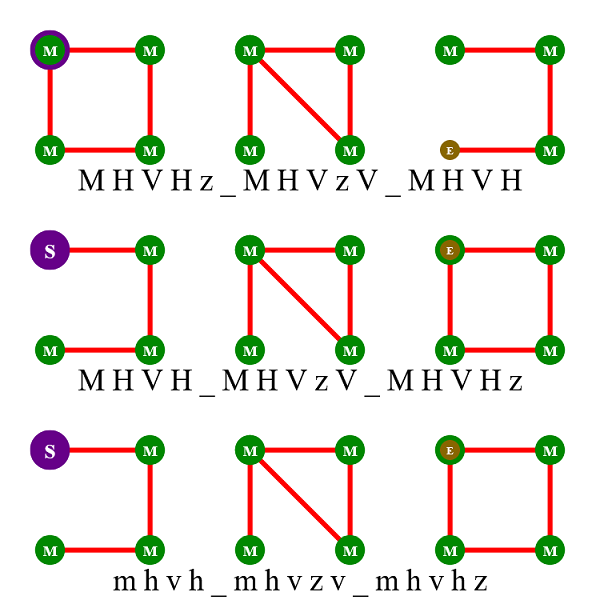
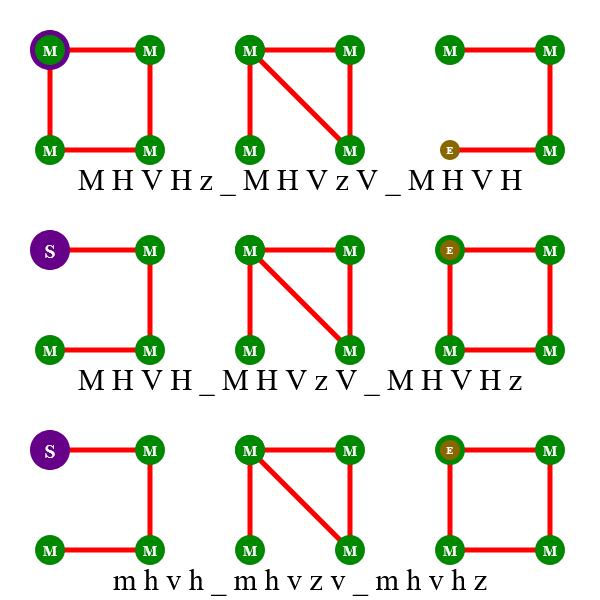
Consistently including Firefox renders

diff --git a/sahara/node_vertices_tests/all_tests.html b/sahara/node_vertices_tests/all_tests.html
@@ -1,0 +1,14 @@
+<html>
+<head>
+</head>
+<body>
+<img src="arcs.svg"/>
+<img src="beziers.svg"/>
+<img src="elliptic.svg"/>
+<img src="gradient.svg"/>
+<img src="lines.svg"/>
+<img src="overlap.svg"/>
+<img src="start_end.svg"/>
+<img src="test0.svg"/>
+</body>
+</html>

diff --git a/sahara/node_vertices_tests/README.md b/sahara/node_vertices_tests/README.md
@@ -1,9 +1,9 @@
 Testcases for changes to CairoSVG's mechanism for path angles and markers.
 
 Column explanation:
-* **[Inkscape](https://inkscape.org/)**'s export-to-PNG function as a reference
+* **[Inkscape](https://inkscape.org/)**'s PNG export and **Firefox** Screenshots as a reference
 * **Kozea**: current version of the [original CairoSVG library](https://github.com/Kozea/CairoSVG)
-* **AgC/main**: this repo's [`main`](https://github.com/SilverCardioid/CairoSVG/) branch, my own work-in-progress fork of CairoSVG (currently functionally the same)
+* **AgC/main**: this repo's [`main`](https://github.com/SilverCardioid/CairoSVG/) branch, my own work-in-progress fork of CairoSVG (not included below)
 * **AgC/master**: the [`master`](https://github.com/SilverCardioid/CairoSVG/tree/master) branch, used for proposing minor changes to Kozea/CairoSVG and otherwise kept in sync with it
 
 The rightmost images are visualisations of the `node.vertices` array, which is internally used for the marker positions and angles. For each vertex, the calculated direction of the outgoing path segment is green, and that of the incoming segment (pointing away from it) is purple. Grey means the two overlap.
@@ -12,49 +12,50 @@ The rightmost images are visualisations of the `node.vertices` array, which is i
 |     |     |     |
 | :-: | :-: | :-: |
 | ![](lines-ink.png)<br/>**Inkscape** | ![](lines-kozea.png)<br/>**Kozea** | ![](lines-kozea-vertices.png)<br/>**Kozea (vertices)** |
-| ![](lines-agc-main.png)<br/>**AgC/main**| ![](lines-agc-master.png)<br/>**AgC/master**  | ![](lines-agc-master-vertices.png)<br/>**AgC/master (vertices)** |
+| ![](lines-firefox.png)<br/>**Firefox**| ![](lines-agc-master.png)<br/>**AgC/master**  | ![](lines-agc-master-vertices.png)<br/>**AgC/master (vertices)** |
 
 ## Beziers
 This test file includes a few degenerate curves, of which some or all control points coincide with vertices. In the current Kozea version, they result in a mathematically undefined `math.atan2(0,0)` (although that function returns an angle of zero degrees, hence all the arrows to the right in Kozea/vertices). The newer version fixes this by noting that the angles correspond to those of the lower-degree Bezier created by removing those control points. The extreme case, a zero-length segment (including those made with `L` or `A`), does not give correct angles yet.
 |     |     |     |
 | :-: | :-: | :-: |
 | ![](beziers-ink.png)<br/>**Inkscape** | ![](beziers-kozea.png)<br/>**Kozea** | ![](beziers-kozea-vertices.png)<br/>**Kozea (vertices)** |
-| ![](beziers-agc-main.png)<br/>**AgC/main**| ![](beziers-agc-master.png)<br/>**AgC/master**  | ![](beziers-agc-master-vertices.png)<br/>**AgC/master (vertices)** |
+| ![](beziers-firefox.png)<br/>**Firefox**| ![](beziers-agc-master.png)<br/>**AgC/master**  | ![](beziers-agc-master-vertices.png)<br/>**AgC/master (vertices)** |
 
 ## Circular arcs
 In the two arc test files, the central segments of each sub-path are arcs with zero radius, which according to [the SVG specification](https://www.w3.org/Graphics/SVG/1.1/implnote.html#ArcOutOfRangeParameters) should be treated as a straight line. Inkscape [fails to render this](arcs-ink.png) (apparently painting a large solid black or white rectangle instead of the path), so its images were made with versions of the files that use an `L` instead.
 |     |     |     |
 | :-: | :-: | :-: |
 | ![](arcs-ink-fix.png)<br/>**Inkscape** | ![](arcs-kozea.png)<br/>**Kozea** | ![](arcs-kozea-vertices.png)<br/>**Kozea (vertices)** |
-| ![](arcs-agc-main.png)<br/>**AgC/main**| ![](arcs-agc-master.png)<br/>**AgC/master**  | ![](arcs-agc-master-vertices.png)<br/>**AgC/master (vertices)** |
+| ![](arcs-firefox.png)<br/>**Firefox**| ![](arcs-agc-master.png)<br/>**AgC/master**  | ![](arcs-agc-master-vertices.png)<br/>**AgC/master (vertices)** |
 
 ## Elliptic arcs
 |     |     |     |
 | :-: | :-: | :-: |
 | ![](elliptic-ink-fix.png)<br/>**Inkscape** | ![](elliptic-kozea.png)<br/>**Kozea** | ![](elliptic-kozea-vertices.png)<br/>**Kozea (vertices)** |
-| ![](elliptic-agc-main.png)<br/>**AgC/main**| ![](elliptic-agc-master.png)<br/>**AgC/master**  | ![](elliptic-agc-master-vertices.png)<br/>**AgC/master (vertices)** |
+| ![](elliptic-firefox.png)<br/>**Firefox**| ![](elliptic-agc-master.png)<br/>**AgC/master**  | ![](elliptic-agc-master-vertices.png)<br/>**AgC/master (vertices)** |
 
 ## Moveto, closepath and marker types
 |     |     |     |
 | :-: | :-: | :-: |
 | ![](start_end-ink.png)<br/>**Inkscape** | ![](start_end-kozea.png)<br/>**Kozea** | ![](start_end-kozea-vertices.png)<br/>**Kozea (vertices)** |
-| ![](start_end-agc-main.png)<br/>**AgC/main**| ![](start_end-agc-master.png)<br/>**AgC/master**  | ![](start_end-agc-master-vertices.png)<br/>**AgC/master (vertices)** |
+| ![](start_end-firefox.png)<br/>**Firefox**| ![](start_end-agc-master.png)<br/>**AgC/master**  | ![](start_end-agc-master-vertices.png)<br/>**AgC/master (vertices)** |
 
 ## Closing vertex angles & marker overlap
-|     |     |     |
-| :-: | :-: | :-: |
-| ![](start_end-ink.png)<br/>**Inkscape** | ![](start_end-firefox.png)<br/>**Firefox** | ![](start_end-agc-master.png)<br/>**AgC/master** |
-| ![](overlap-ink.png)<br/>**Inkscape** | ![](overlap-firefox.png)<br/>**Firefox** | ![](overlap-agc-master.png)<br/>**AgC/master** |
+|     |     |
+| :-: | :-: |
+| ![](overlap-ink.png)<br/>**Inkscape** | ![](overlap-kozea.png)<br/>**Kozea** |
+| ![](overlap-firefox.png)<br/>**Firefox** | ![](overlap-agc-master.png)<br/>**AgC/master** |
 
-A note on a discrepancy between Inkscape and CairoSVG: on the initial vertex of closed sub-paths, Inkscape doesn't average the angles of the adjoining segments as [the specification](https://www.w3.org/Graphics/SVG/1.1/painting.html#Markers) stipulates (which AgC/master follows, as do Firefox and the few other browsers I've tried), but instead places two markers in the direction of the first and last segments, as if the path had been "manually closed" with an `L`.
+A note on a discrepancy between Inkscape and CairoSVG in the previous tests: on the initial vertex of closed sub-paths, Inkscape doesn't average the angles of the adjoining segments as [the specification](https://www.w3.org/Graphics/SVG/1.1/painting.html#Markers) stipulates (which AgC/master follows, as do Firefox and the few other browsers I've tried), but instead places two markers in the direction of the first and last segments, as if the path had been "manually closed" with an `L`.
 
 Contrary to what I originally assumed, Firefox actually also draws two overlapping markers, although obviously only one will be visible if their shape and orientation are the same. This behaviour is in line with the specification ("for a 'path' element which ends with a closed sub-path, (...) if 'marker-end' does not equal none, then it is possible that two markers will be rendered on the given vertex."), and is made clear in the second row of the comparison, in which the three marker types (start, mid and end) use differently sized circles.
 
 The seemingly missing markers in the bottom Inkscape image are due to an inconsistency in the drawing order. Whereas Firefox and AgC/master draw overlapping markers in order of appearance in the path (i.e., start below mid, mid below end); Inkscape places the purple start marker on top of the smaller green mid marker (and likewise for mid and end). The specification isn't clear on this as far as I can see, although the former behaviour seems more sensible.
 
 ## Marker size & gradients
-|     |     |     |
-| :-: | :-: | :-: |
-| ![](gradient-ink.png)<br/>**Inkscape** | ![](gradient-kozea.png)<br/>**Kozea** | ![](gradient-agc-master.png)<br/>**AgC/master** |
+|     |     |
+| :-: | :-: |
+| ![](gradient-ink.png)<br/>**Inkscape** | ![](gradient-kozea.png)<br/>**Kozea** |
+| ![](gradient-firefox.png)<br/>**Firefox** | ![](gradient-agc-master.png)<br/>**AgC/master** |
 
 [I removed](https://github.com/SilverCardioid/CairoSVG/commit/0835fc88780de1272eeb9181a02986d4289146cc) a section of code that scales markers based on their bounding box after noticing an issue with the sizes of markers (the testcase in the previous section was mistakenly [drawn with equally sized markers](overlap-kozea.png)). This part was [added in 2016](https://github.com/Kozea/CairoSVG/pull/89) in a series of edits relating to gradients, though what exact problem it was intended to fix isn't clear to me. This testcase renders the gradient on the markers correctly.
